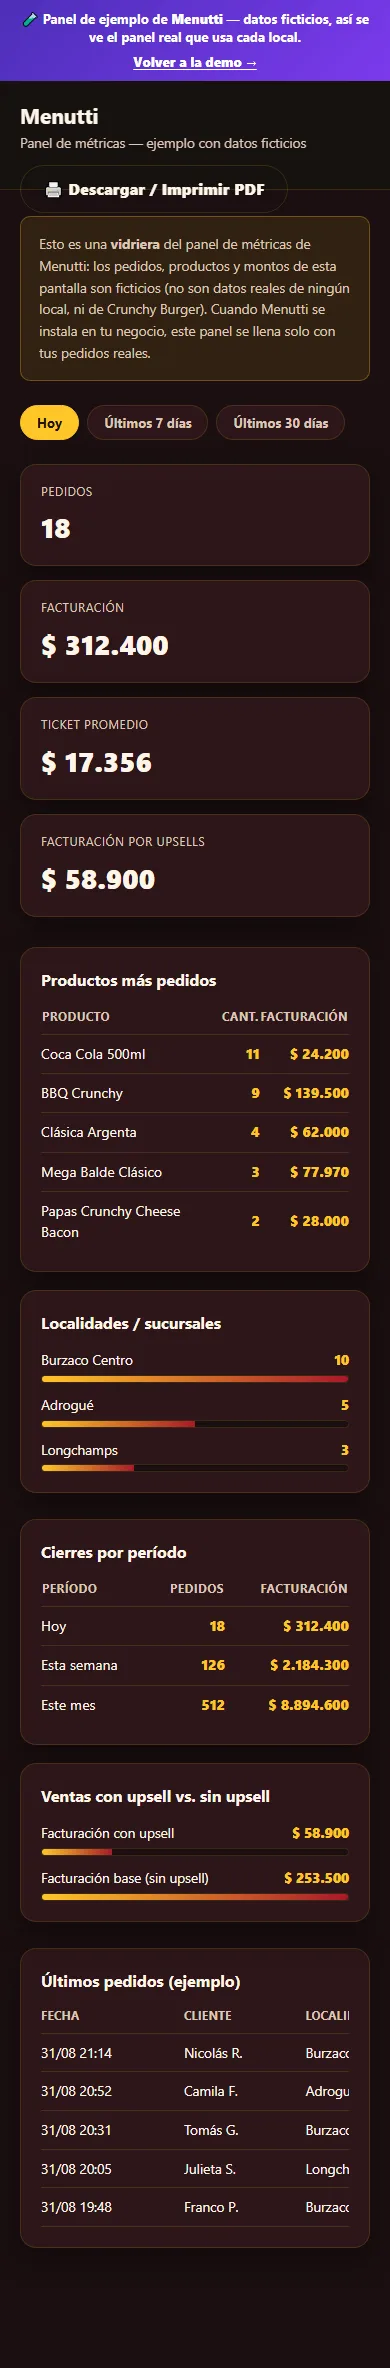
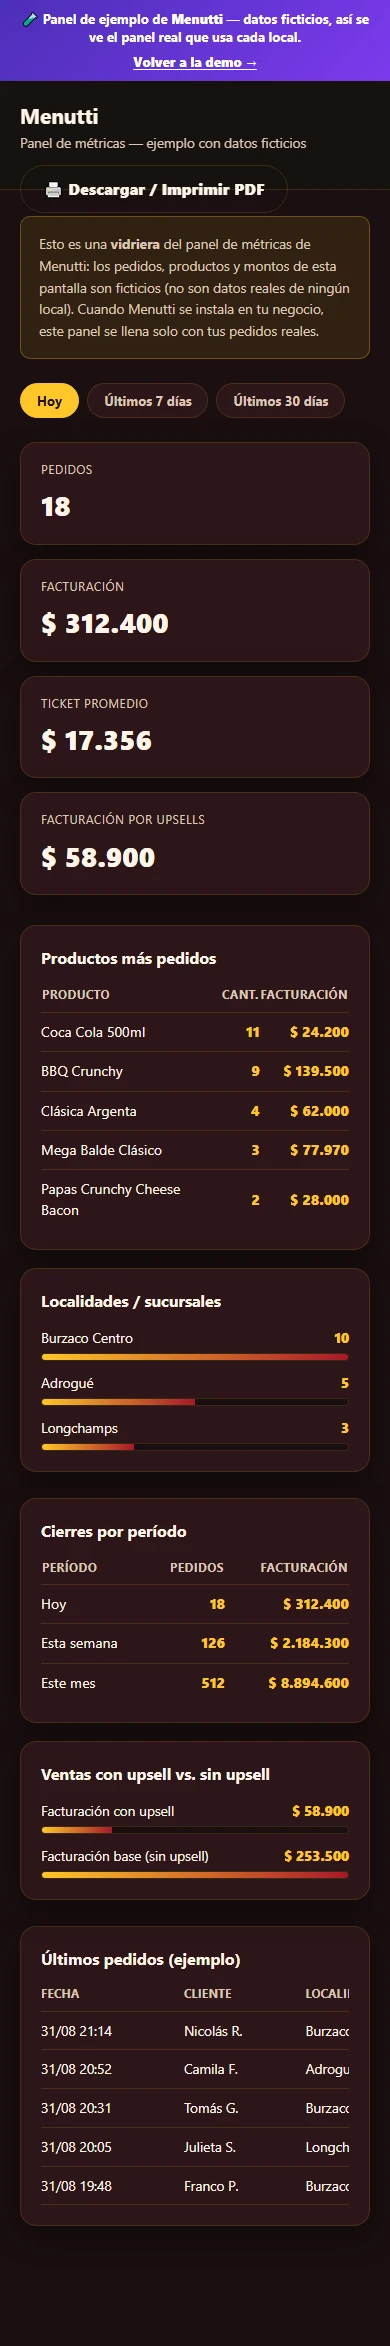
Restyling tabla Comparativa: chips solidos en cash + gitignore .vercel/.env*
Cada feature ahora vive en un chip solido color cash (mejor contraste con
texto blanco que flame) a la izquierda, con check/X alineados a la derecha
en el area blanca de la tabla, en desktop y mobile.

Changed region(s): [[0.0308, 0.0311, 0.9538, 0.9335], [0.3385, 0.0, 0.6462, 0.0311], [0.7692, 0.8402, 0.8923, 0.9335]]

diff --git a/src/sections/Comparativa.tsx b/src/sections/Comparativa.tsx
@@ -1,4 +1,4 @@
-import { CheckCircle2, Minus } from 'lucide-react';
+import { CheckCircle2, X } from 'lucide-react';
 import FadeIn from '../components/FadeIn';
 import Eyebrow from '../components/Eyebrow';
 
@@ -29,11 +29,12 @@ const FILAS = [
  * Tabla comparativa Menutti vs. "Otros" — tabla real en desktop (semántica,
  * navegable con lector de pantalla) y cards apiladas en mobile (una por
  * feature, con las dos columnas lado a lado adentro), porque una tabla de
- * 3 columnas angosta se rompe o queda ilegible por debajo de ~480px. Mismo
- * lenguaje visual que el resto del sitio: check en cash (la plata que
- * sube) para todo lo que Menutti resuelve, un guion neutro en gris para lo
- * que "los otros" no tienen — sin ✕ rojo, no es un ataque a la
- * competencia, es una foto de lo que falta.
+ * 3 columnas angosta se rompe o queda ilegible por debajo de ~480px. Cada
+ * feature vive dentro de un chip sólido en `cash` (verde) — no `flame`:
+ * con texto blanco encima, flame da ~3.9:1 de contraste (falla AA para
+ * texto normal), cash da ~5.3:1. Fuera del chip, sobre el blanco de la
+ * tabla: check verde bajo "Menutti", ✕ oscura bajo "Otros" — sin rojo, no
+ * es un ataque a la competencia, es una foto de lo que falta.
  */
 export default function Comparativa() {
   return (
@@ -48,25 +49,27 @@ export default function Comparativa() {
           </h2>
         </FadeIn>
 
-        {/* Mobile: una card por feature, con las dos columnas lado a lado
-            adentro de la card — nunca una tabla de 3 columnas apretada. */}
+        {/* Mobile: una card por feature, chip sólido en cash a la izquierda
+            (título + body en blanco) y check/✕ a la derecha — mismo
+            lenguaje visual que la tabla de desktop. */}
         <FadeIn delay={0.05} className="mt-8 flex flex-col gap-3 sm:hidden">
+          <div className="flex items-center justify-end gap-4 pr-1 text-[11px] font-semibold uppercase tracking-wide text-ink-dimmer" aria-hidden="true">
+            <span className="text-cash">Menutti</span>
+            <span>Otros</span>
+          </div>
           {FILAS.map((fila) => (
             <div
               key={fila.title}
-              className="rounded-2xl border border-ink-border bg-paper-card p-4"
+              className="flex items-stretch gap-2.5 rounded-2xl border border-ink-border bg-paper-card p-2"
             >
-              <h3 className="text-[15px] font-semibold leading-snug text-ink">{fila.title}</h3>
-              <p className="mt-1 text-[13px] leading-relaxed text-ink-dim">{fila.body}</p>
-              <div className="mt-3.5 grid grid-cols-2 gap-2 border-t border-ink-border pt-3.5">
-                <div className="flex items-center gap-2 rounded-xl bg-cash-pale px-3 py-2">
-                  <CheckCircle2 size={16} className="shrink-0 text-cash" />
-                  <span className="text-[12.5px] font-semibold text-cash">Menutti</span>
-                </div>
-                <div className="flex items-center gap-2 rounded-xl bg-paper px-3 py-2">
-                  <Minus size={16} className="shrink-0 text-ink-dimmer" />
-                  <span className="text-[12.5px] font-medium text-ink-dimmer">Otros</span>
-                </div>
+              <div className="flex flex-1 flex-col justify-center rounded-xl bg-cash px-4 py-3.5">
+                <h3 className="text-[14px] font-semibold leading-snug text-white">{fila.title}</h3>
+                <p className="mt-1 text-[12px] leading-relaxed text-white/70">{fila.body}</p>
+              </div>
+              <div className="flex w-14 shrink-0 flex-col items-center justify-center gap-2">
+                <CheckCircle2 size={18} className="shrink-0 text-cash" aria-label="Menutti: sí" />
+                <div className="h-px w-6 bg-ink-border" aria-hidden="true" />
+                <X size={16} className="shrink-0 text-ink-dim" aria-label="Otros: no" />
               </div>
             </div>
           ))}
@@ -92,15 +95,17 @@ export default function Comparativa() {
             <tbody>
               {FILAS.map((fila, i) => (
                 <tr key={fila.title} className={i !== FILAS.length - 1 ? 'border-b border-ink-border' : ''}>
-                  <th scope="row" className="px-6 py-5 text-left font-normal">
-                    <span className="block text-[15px] font-semibold leading-snug text-ink">{fila.title}</span>
-                    <span className="mt-0.5 block text-[13px] leading-relaxed text-ink-dim">{fila.body}</span>
+                  <th scope="row" className="p-2 text-left font-normal align-middle">
+                    <div className="flex h-full flex-col justify-center rounded-2xl bg-cash px-5 py-4">
+                      <span className="block text-[15px] font-semibold leading-snug text-white">{fila.title}</span>
+                      <span className="mt-0.5 block text-[13px] leading-relaxed text-white/70">{fila.body}</span>
+                    </div>
                   </th>
-                  <td className="px-6 py-5 text-center">
+                  <td className="px-6 py-5 text-center align-middle">
                     <CheckCircle2 size={22} className="mx-auto shrink-0 text-cash" aria-label="Sí" />
                   </td>
-                  <td className="px-6 py-5 text-center">
-                    <Minus size={20} className="mx-auto shrink-0 text-ink-dimmer" aria-label="No" />
+                  <td className="px-6 py-5 text-center align-middle">
+                    <X size={20} className="mx-auto shrink-0 text-ink-dim" aria-label="No" />
                   </td>
                 </tr>
               ))}

diff --git a/src/sections/Prueba.tsx b/src/sections/Prueba.tsx
@@ -73,7 +73,7 @@ export default function Prueba() {
                 src={dashboardImg}
                 alt="Panel de métricas de Menutti: productos más vendidos, ticket promedio, ventas por upsell y facturación."
                 width={390}
-                height={2368}
+                height={2346}
                 loading="lazy"
                 className="h-auto w-full"
               />
